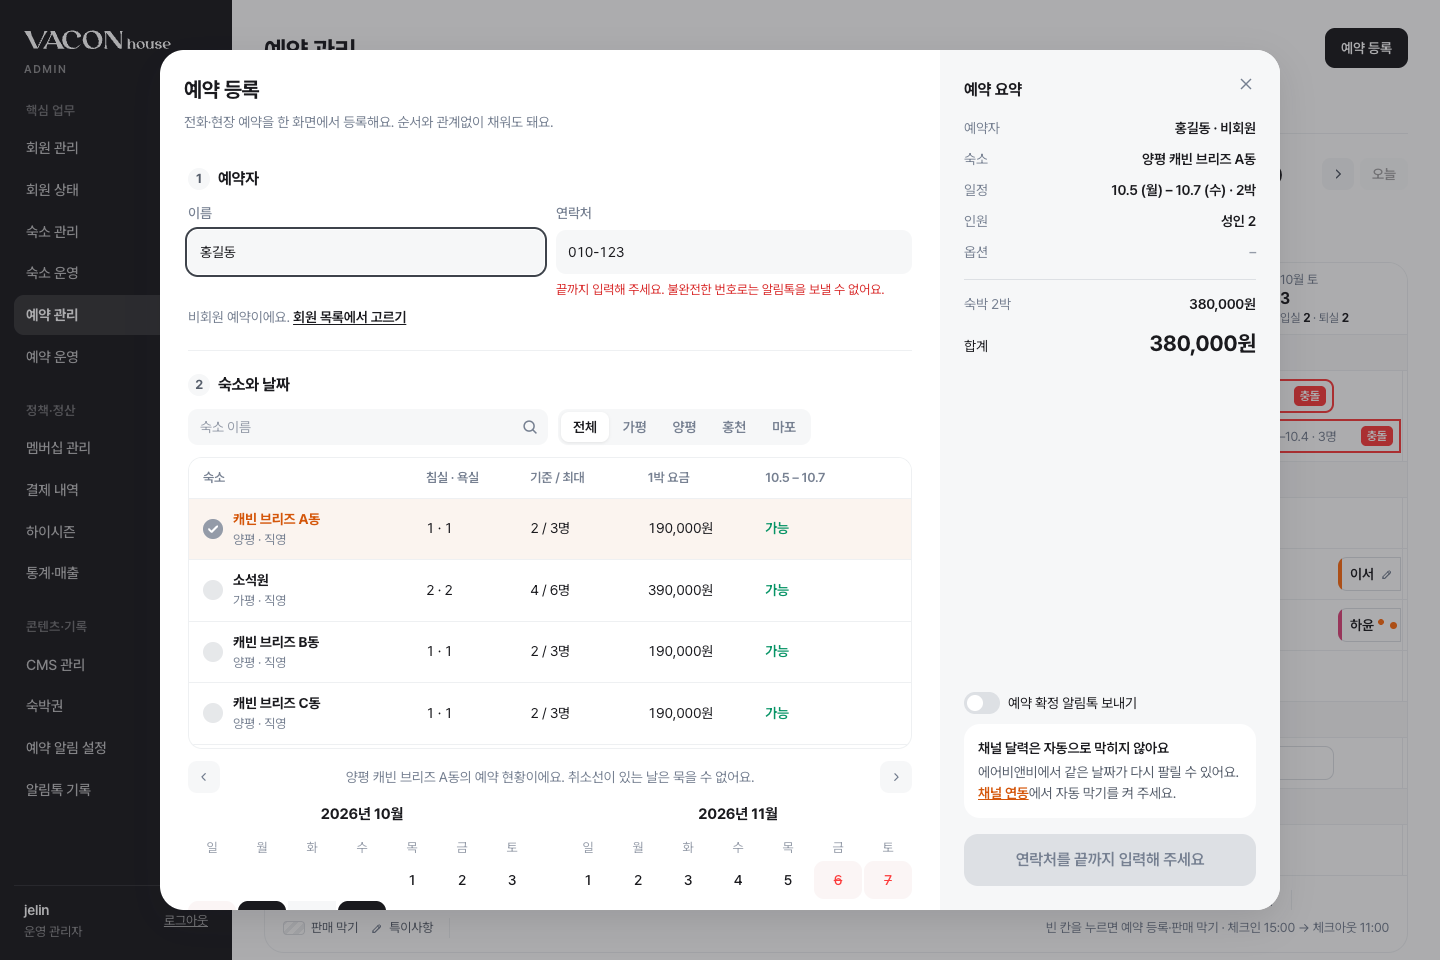
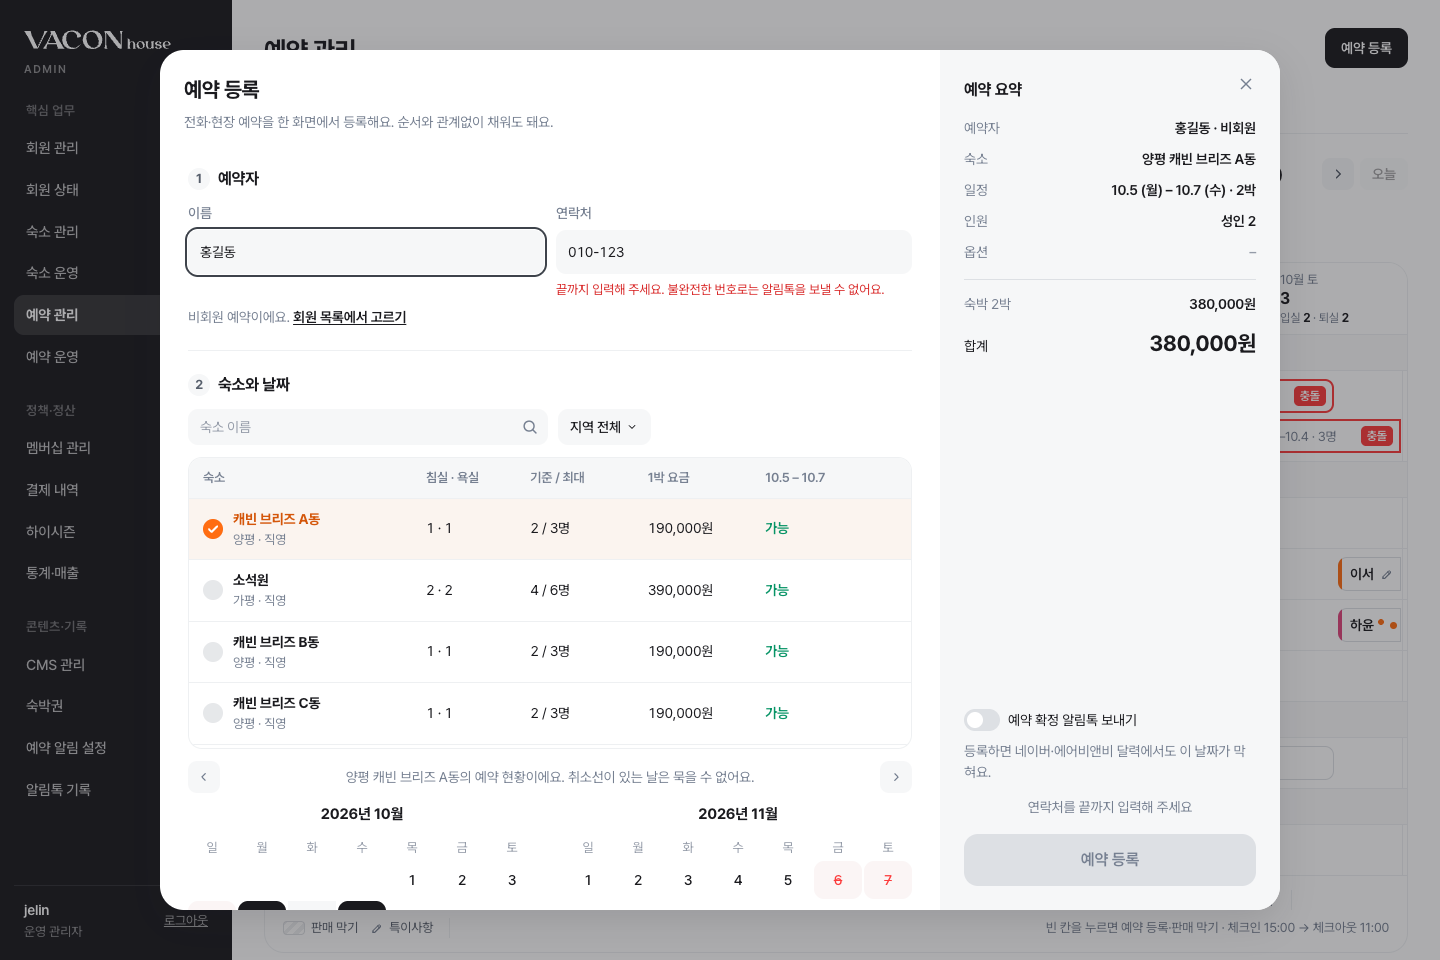
Create: channel sync on by default, fixed 예약 등록 label with hint, gray list headers, multi-select region dropdown

diff --git a/admin/index.html b/admin/index.html
@@ -299,7 +299,7 @@ body.anno .main{margin-right:432px}
 .cr .segs button{border:0;background:none;height:30px;padding:0 12px;border-radius:8px;font-size:14px;font-weight:600;color:var(--ink-3)}
 .cr .segs button.on{background:#fff;color:var(--ink);box-shadow:0 1px 3px rgba(0,0,0,.08)}
 .cr .plist{border:1px solid var(--line);border-radius:14px;max-height:292px;overflow:auto}
-.cr .plist .ph{position:sticky;top:0;background:#fff;z-index:1;display:grid;gap:12px;padding:10px 14px;border-bottom:1px solid var(--line);font-size:13px;font-weight:600;color:var(--ink-3)}
+.cr .plist .ph{position:sticky;top:0;background:var(--surface-2);z-index:1;display:grid;gap:12px;padding:10px 14px;border-bottom:1px solid var(--line);font-size:13px;font-weight:600;color:var(--ink-3)}
 .cr .pr2{all:unset;box-sizing:border-box;cursor:pointer;display:grid;gap:12px;align-items:center;width:100%;padding:10px 14px;border-bottom:1px solid var(--line);font-size:14px}
 .cr .pr2:last-child{border-bottom:0}
 .cr .pr2:hover{background:#FAFBFC}
@@ -312,6 +312,7 @@ body.anno .main{margin-right:432px}
 .cr .pr2.v > span:first-child small{grid-column:2}
 .cr .rd{width:20px;height:20px;border-radius:50%;background:var(--surface-3);display:grid;place-items:center;grid-row:span 2;align-self:center;color:var(--accent)}
 .cr .rd svg{width:20px;height:20px}
+.cr .pr2 i.rd{color:var(--accent)}
 .cr .pr2.v.on{background:var(--accent-soft)}
 .cr .pr2.v.on b{color:var(--accent-ink)}
 .cr .pr2:disabled{cursor:not-allowed;opacity:.5}
@@ -385,6 +386,7 @@ body.anno .main{margin-right:432px}
 .crr .nt{margin-top:auto;color:var(--ink)}
 .crr .callout{background:#fff}
 .crr #cGo{width:100%;margin-top:6px;flex:none}
+.crr .need{font-size:14px;color:var(--ink-3);text-align:center;margin-top:4px}
 .crr #cGo:disabled{background:var(--line-2);color:var(--ink-3);opacity:1}
 </style>
 </head>
@@ -809,11 +811,11 @@ function blockMenu(bi, e){
 /* ---------- 예약 등록: 등록 전에 겹침을 막아요 ---------- */
 const dateVal = o => isoOf(o);
 const offVal = s => offOf(s);
-function autoBlock(){ try { return localStorage.getItem('vh-ch-autoblock') === '1'; } catch(e){ return false; } }
+function autoBlock(){ try { return localStorage.getItem('vh-ch-autoblock') !== '0'; } catch(e){ return true; } }
 function openCreate(o){
   /* 한 화면에서 위에서 아래로: 예약자 → 숙소·날짜 → 인원·옵션 → 접수. 오른쪽 요약에서 바로 등록 */
   const F = {villa:o.villa || null, a:o.a ?? null, b:(o.b != null && o.b > (o.a ?? -99)) ? o.b : null, pick:0,
-    mem:o.member ? MEMBERS.find(m => m.id === o.member) || null : null, guest:null, mq:'', vq:'', rg:'전체',
+    mem:o.member ? MEMBERS.find(m => m.id === o.member) || null : null, guest:null, mq:'', vq:'', rgs:new Set(), rgOpen:false,
     adults:2, kids:0, infants:0, opts:[], route:'전화', pay:'결제대기', memo:'', notify:true, mo:0};
   if (F.a != null && F.b == null) F.pick = 1;
   if (F.a != null) F.mo = dOf(F.a).getMonth() - TODAY.getMonth();
@@ -844,7 +846,7 @@ function openCreate(o){
     const n = nights(), mq = F.mq.trim().toLowerCase().replace(/-/g, '');
     const mems = MEMBERS.filter(m => !mq || (m.name + m.phone + m.email).toLowerCase().includes(mq)).sort((x, y) => y.joined.localeCompare(x.joined));
     const vq = F.vq.trim();
-    const vils = VILLAS.filter(x => (F.rg === '전체' || x.region === F.rg) && (!vq || (x.region + x.name).includes(vq))).sort((x, y) => (y.id === F.villa) - (x.id === F.villa) || (n > 0 ? freeFor(y.id, F.a, F.b) - freeFor(x.id, F.a, F.b) : 0));
+    const vils = VILLAS.filter(x => (!F.rgs.size || F.rgs.has(x.region)) && (!vq || (x.region + x.name).includes(vq))).sort((x, y) => (y.id === F.villa) - (x.id === F.villa) || (n > 0 ? freeFor(y.id, F.a, F.b) - freeFor(x.id, F.a, F.b) : 0));
     const v = F.villa && vById[F.villa];
     q('#crBody').innerHTML = `
       <section><h4><span>1</span>예약자</h4>
@@ -857,7 +859,7 @@ function openCreate(o){
       </section>
       <section><h4><span>2</span>숙소와 날짜</h4>
         <div class="ltools"><form class="sbox" id="vform" role="search"><input class="search" id="vQ" placeholder="숙소 이름" value="${esc(F.vq)}" autocomplete="off"><button type="submit" aria-label="검색">${ICON.search}</button></form>
-          <div class="segs">${['전체', ...REGIONS].map(x => `<button data-rg="${x}" class="${F.rg === x ? 'on' : ''}">${x}</button>`).join('')}</div></div>
+          <div class="dd"><button type="button" class="fsel ${F.rgs.size ? 'on' : ''}" data-rgdd>${F.rgs.size ? `지역 ${F.rgs.size}` : '지역 전체'} ${ICON.down}</button>${F.rgOpen ? `<div class="ddpanel">${REGIONS.map(x => `<label><input type="checkbox" data-rgc value="${x}" ${F.rgs.has(x) ? 'checked' : ''}> ${x}</label>`).join('')}<div class="ddfoot"><button type="button" class="btn sm" data-rgclear>전체 해제</button><button type="button" class="btn sm primary" data-rgdd>적용</button></div></div>` : ''}</div></div>
         <div class="plist v"><div class="ph v"><span>숙소</span><span>침실 · 욕실</span><span>기준 / 최대</span><span>1박 요금</span><span>${n > 0 ? `${md(F.a)} – ${md(F.b)}` : '예약 가능'}</span></div>
           ${vils.length ? vils.map(x => { const no = n > 0 && !freeFor(x.id, F.a, F.b), small = x.cap < people();
             return `<button class="pr2 v ${F.villa === x.id ? 'on' : ''}" data-v="${x.id}" ${no ? 'disabled' : ''}><span><i class="rd">${F.villa === x.id ? ICON.checkFill : ''}</i><b>${x.name}</b><small>${x.region} · ${x.type}</small></span><span class="num">${x.bed} · ${x.bath}</span><span class="num ${small ? 'warn' : ''}">${x.base} / ${x.cap}명</span><span class="num">${won(x.rate)}</span><span>${n > 0 ? (no ? `<em class="bad">${why(x.id)}</em>` : '<em class="ok">가능</em>') : '<i>날짜를 고르면 보여요</i>'}</span></button>`; }).join('')
@@ -907,7 +909,7 @@ function openCreate(o){
       <div class="tot">${p ? `<div class="sr"><span>숙박 ${n}박</span><b>${won(p.room)}</b></div>${p.opts.map(o => `<div class="sr"><span>${o[0]}</span><b>${won(o[1])}</b></div>`).join('')}<div class="sum"><span>합계</span><b>${won(p.sub)}</b></div>` : '<div class="sum"><span>합계</span><b class="mut">숙소와 날짜를 고르면 계산돼요</b></div>'}</div>
       <label class="tgl nt"><input type="checkbox" id="cNotify" ${F.notify && d.length >= 10 ? 'checked' : ''} ${d.length >= 10 ? '' : 'disabled'}>예약 확정 알림톡 보내기</label>
       <div id="cChan">${autoBlock() ? '<div class="mut sm">등록하면 네이버·에어비앤비 달력에서도 이 날짜가 막혀요.</div>' : `<div class="callout orange"><div class="tx"><b>채널 달력은 자동으로 막히지 않아요</b><span>에어비앤비에서 같은 날짜가 다시 팔릴 수 있어요. <a href="#" data-ch2 style="color:var(--accent-ink);font-weight:600">채널 연동</a>에서 자동 막기를 켜 주세요.</span></div></div>`}</div>
-      <button class="btn xl primary" id="cGo" ${need ? 'disabled' : ''}>${need || `${n}박 예약 등록`}</button>`;
+      ${need ? `<div class="need">${need}</div>` : ''}<button class="btn xl primary" id="cGo" ${need ? 'disabled' : ''}>예약 등록</button>`;
   }
   const pick = o => {
     if (F.pick === 0 || o <= F.a){ F.a = o; F.b = null; F.pick = 1; }
@@ -919,7 +921,9 @@ function openCreate(o){
     if (t.closest('[data-ch2]')){ e.preventDefault(); box.remove(); return openChannels(); }
     const m = t.closest('[data-mem]'); if (m){ F.mem = MEMBERS.find(x => x.id === m.dataset.mem); F.guest = null; return body(); }
     if (t.closest('[data-guest]')){ const qq = (q('#mQ')?.value || F.mq).trim(), nm = /\d|@/.test(qq) ? '' : qq, ph = /^[\d-]+$/.test(qq) ? qq : ''; F.guest = {name:nm, phone:ph}; F.mem = null; body(); (nm ? q('#cPhone') : q('#gName')).focus(); return; }
-    const rg = t.closest('[data-rg]'); if (rg){ F.rg = rg.dataset.rg; return body(); }
+    if (t.closest('[data-rgdd]')){ F.rgOpen = !F.rgOpen; return body(); }
+    if (t.closest('[data-rgclear]')){ F.rgs.clear(); return body(); }
+    const rc = t.closest('[data-rgc]'); if (rc){ rc.checked ? F.rgs.add(rc.value) : F.rgs.delete(rc.value); return; }
     if (t.closest('[data-unpick]')){ F.mem = null; F.guest = null; body(); q('#mQ')?.focus(); return; }
     const vb = t.closest('[data-v]'); if (vb && !vb.disabled){ F.villa = vb.dataset.v; return body(); }
     const alt = t.closest('[data-alt]'); if (alt){ F.villa = alt.dataset.alt; return body(); }
